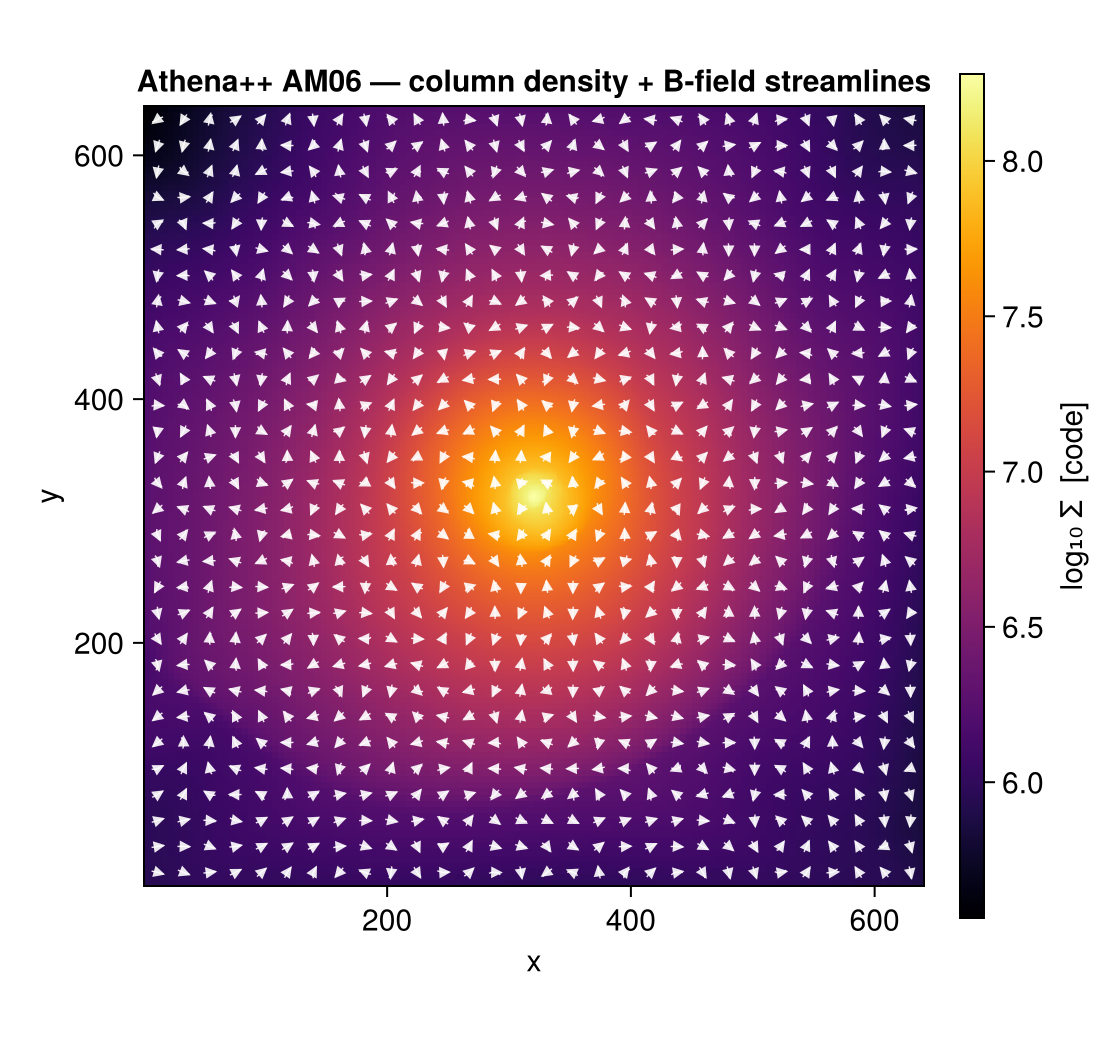
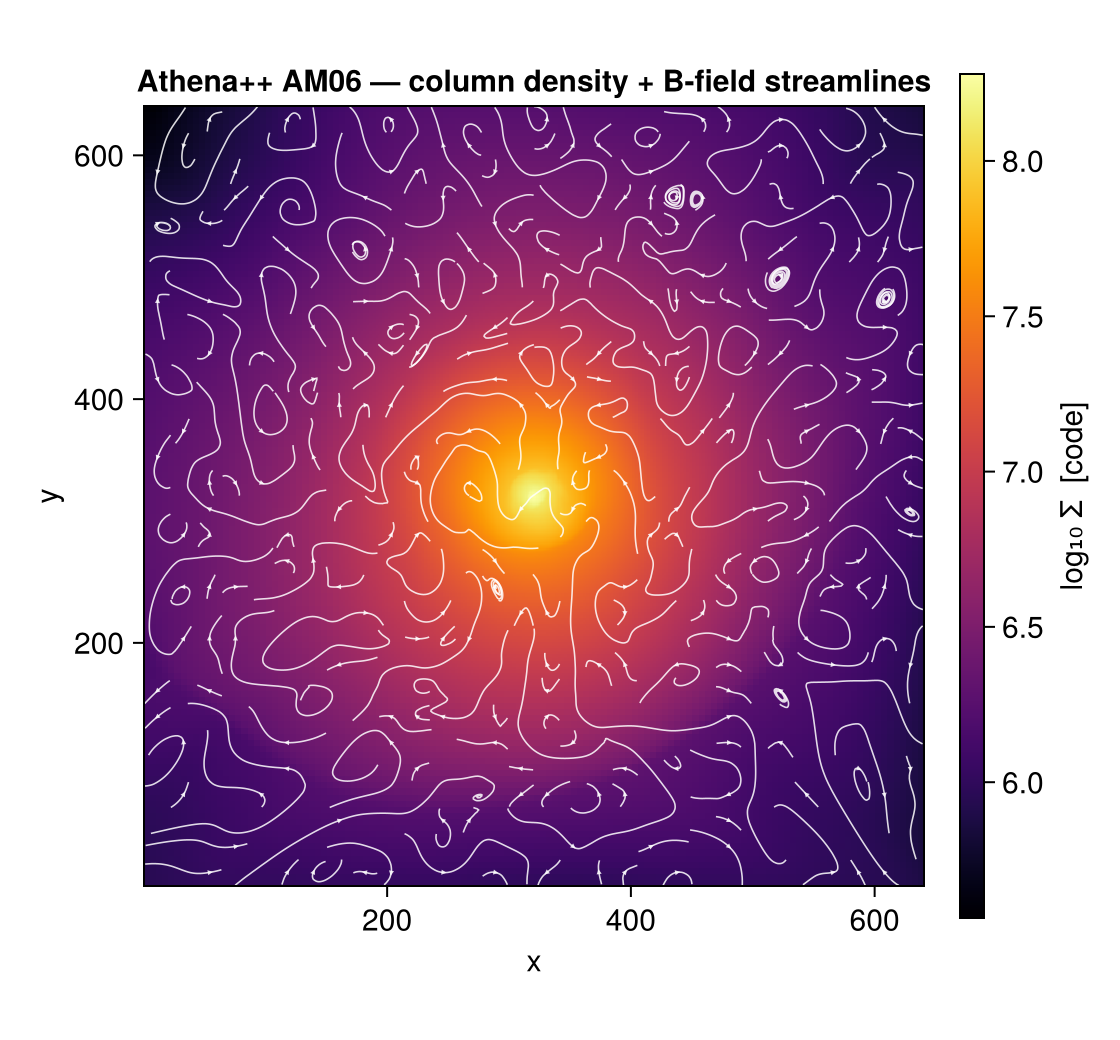
docs: AMR refinement-level maps + full CairoMakie code in reader docs (#182)
- AMR refinement-level map on both readers (volume-weighted mean :level along
  the LOS): Athena++ AM06 draws the nested MeshBlock hierarchy (levels 7→11);
  PLUTO-AMR (Chombo IsothermalSphere) shows the refined central block (6→7).
- Fix the AM06 B-field streamlines: smooth the turbulent mass-weighted field
  and tune streamplot so it reads as flowing field lines, not a quiver of arrows.
- Show the complete CairoMakie plotting code (heatmap / streamplot / 2-D
  histogram / Colorbar / save) in both the Athena++ and PLUTO docs.
- Document load behaviour for the non-RAMSES frontends: the whole snapshot is
  loaded (xrange/yrange/zrange/lmax accepted but not yet applied → use
  subregion afterward), and data types load separately as for RAMSES (only
  what the code wrote: Athena++ = hydro+MHD; PLUTO = hydro + optional particles).

make_reader_figures.jl regenerates all six figures from the fixtures. Docs build clean.

Changed region(s): [[0.125, 0.0923, 0.8438, 0.8615]]

diff --git a/docs/src/athena_reader.md b/docs/src/athena_reader.md
@@ -31,6 +31,14 @@ clumpfind(gas, ThresholdFoF(:rho; threshold=1e2, threshold_unit=:nH, linking_len
 You can also call the frontend explicitly with [`getinfo_athena`](@ref) / [`gethydro_athena`](@ref)
 (e.g. to pass a direct `.athdf` path).
 
+!!! note "What loads, and how much"
+    The frontend currently **loads the whole snapshot**: the `xrange`/`yrange`/`zrange`/`lmax`
+    load-time sub-selection of the RAMSES reader is *not yet applied* for non-RAMSES codes (those
+    keywords are accepted but ignored), so restrict a region **after** loading with
+    [`subregion`](@ref). Data is loaded per type, exactly as for RAMSES — but only what the code
+    wrote exists: an Athena++ snapshot is **hydro + cell-centred MHD only** (no gravity/particles),
+    so you call [`gethydro`](@ref) and there is nothing for `getgravity`/`getparticles` to read.
+
 ## Worked example: the yt AM06 sample
 
 A good way to see the frontend on real data is the **AM06** snapshot from the
@@ -63,15 +71,47 @@ projection(gas, :sd, res=512, center=[:bc], direction=:z)   # column density, fa
 
 Because the `B`-dataset is read into `:bx,:by,:bz`, the full magnetic [`getvar`](@ref) set
 (`:bmag`, `:pmag`, `:beta`, `:v_alfven`, `:mach_alfven`/`:mach_fast`/`:mach_slow`) and vector
-projections work on Athena++ data too. **Magnetic-field streamlines** over the column density come
-from a vector projection of the in-plane field — note this is the **mass-weighted** field, so the
-streamlines trace field *morphology*, not a flux-rigorous line integral:
+projections work on Athena++ data too.
+
+**Magnetic-field streamlines** over the column density come from a vector projection of the
+in-plane field. Note this is the **mass-weighted** field, so the streamlines trace field
+*morphology*, not a flux-rigorous line integral. Here is the complete [CairoMakie](https://docs.makie.org)
+code (a small box-car smoother tidies the turbulent field into clean lines):
 
 ```julia
 using CairoMakie
-p = projection(gas, [:sd, :bx, :by], res=640, center=[:bc], direction=:z)
-Σ, Bx, By = p.maps[:sd], p.maps[:bx], p.maps[:by]
-# heatmap of log10.(Σ) + Makie streamplot of (Bx, By)  → the field threading the cloud
+
+# separable box-car smoother (the projected field maps are dense, no NaN)
+function smooth2d(A, w)
+    n1, n2 = size(A); tmp = similar(A); B = similar(A)
+    for j in 1:n2, i in 1:n1
+        s = 0.0; c = 0
+        for di in -w:w; ii = i+di; (1<=ii<=n1) && (s += A[ii,j]; c += 1); end
+        tmp[i,j] = s/c
+    end
+    for j in 1:n2, i in 1:n1
+        s = 0.0; c = 0
+        for dj in -w:w; jj = j+dj; (1<=jj<=n2) && (s += tmp[i,jj]; c += 1); end
+        B[i,j] = s/c
+    end
+    return B
+end
+
+res = 640
+p  = projection(gas, [:sd, :bx, :by], res=res, center=[:bc], direction=:z)
+Σ  = p.maps[:sd]
+Bx = smooth2d(p.maps[:bx], 4);  By = smooth2d(p.maps[:by], 4)
+
+fig = Figure(size=(560, 520))
+ax  = Axis(fig[1,1]; title="AM06 — column density + B-field streamlines",
+           xlabel="x", ylabel="y", aspect=DataAspect())
+hm  = heatmap!(ax, 1..res, 1..res, log10.(Σ .+ 1e-30); colormap=:inferno)
+# streamplot wants a function (x,y) → vector; index the (smoothed) field maps
+bfield(q) = (i = clamp(round(Int, q[1]), 1, res); j = clamp(round(Int, q[2]), 1, res); Point2f(Bx[i,j], By[i,j]))
+streamplot!(ax, bfield, 1..res, 1..res; colormap=[(:white, 0.85)], gridsize=(30,30),
+            arrow_size=3.5, linewidth=0.8, density=1.6, stepsize=1.0, maxsteps=900)
+Colorbar(fig[1,2], hm, label="log₁₀ Σ  [code]")
+save("am06_bstream.png", fig, px_per_unit=2)
 ```
 
 ![Athena++ AM06 column density with magnetic-field streamlines overlaid — the mass-weighted in-plane B-field traced over the cloud.](assets/athena/am06_bstream.png)
@@ -81,13 +121,47 @@ histogram — and it recovers the expected flux-freezing scaling (|B| ∝ ρ^~2/
 density, a real physics result extracted entirely through Mera's code-blind analysis layer:
 
 ```julia
-ρ, B, m = getvar(gas, :rho), getvar(gas, :bmag), getvar(gas, :mass)
-# 2-D histogram of (log10 ρ, log10 B) weighted by m  → the B–ρ relation
+ρ, B, m = getvar(gas, :rho), getvar(gas, :bmag), getvar(gas, :mass)   # code units
+lx, ly  = log10.(ρ), log10.(B .+ 1e-30); nb = 180
+xr = range(extrema(lx)...; length=nb+1);  yr = range(extrema(ly)...; length=nb+1)
+H  = zeros(nb, nb)
+for k in eachindex(lx)                       # mass-weighted 2-D histogram
+    i = searchsortedlast(xr, lx[k]); j = searchsortedlast(yr, ly[k])
+    (1 <= i <= nb && 1 <= j <= nb) && (H[i,j] += m[k])
+end
+H[H .== 0] .= NaN
+mids(r) = (r[1:end-1] .+ r[2:end]) ./ 2
+
+fig = Figure(size=(560, 470))
+ax  = Axis(fig[1,1]; title="AM06 — density–|B| phase diagram",
+           xlabel="log₁₀ ρ  [code]", ylabel="log₁₀ |B|  [code]")
+hb  = heatmap!(ax, mids(xr), mids(yr), log10.(H); colormap=:viridis)
+Colorbar(fig[1,2], hb, label="log₁₀ mass")
+save("am06_phase.png", fig, px_per_unit=2)
 ```
 
 ![Athena++ AM06 density–|B| phase diagram (mass-weighted) — the magnetic field follows the flux-freezing scaling B ∝ ρ^~2/3 over six decades in density.](assets/athena/am06_phase.png)
 
-These figures are regenerated from the fixture by `docs/make_reader_figures.jl`.
+### AMR refinement map
+
+The cell `:level` is a projectable quantity, so a **volume-weighted mean level along the line of
+sight** maps where the grid refines — for AM06 it draws the nested MeshBlock hierarchy as
+concentric squares tightening onto the dense core (levels 7 → 11):
+
+```julia
+m = projection(gas, :level, res=512, center=[:bc], direction=:z, weighting=[:volume]).maps[:level]
+
+fig = Figure(size=(560, 470))
+ax  = Axis(fig[1,1]; title="AM06 — AMR refinement level (mean along LOS)",
+           xlabel="x", ylabel="y", aspect=DataAspect())
+hm  = heatmap!(ax, m; colormap=:turbo)
+Colorbar(fig[1,2], hm, label="level (7–11)")
+save("am06_levels.png", fig, px_per_unit=2)
+```
+
+![Athena++ AM06 AMR refinement level — the nested MeshBlock hierarchy shows as concentric squares of increasing level toward the dense core.](assets/athena/am06_levels.png)
+
+All figures on this page are regenerated from the fixture by `docs/make_reader_figures.jl`.
 
 ## Units
 

diff --git a/docs/src/pluto_reader.md b/docs/src/pluto_reader.md
@@ -42,6 +42,14 @@ info = getinfo(5, path; code=:pluto)        # or :ramses, or :auto (the default)
 The low-level frontend functions are also exported if you want them directly:
 `getinfo_pluto(output, path)` and `gethydro_pluto(info)`.
 
+!!! note "What loads, and how much"
+    The frontend currently **loads the whole snapshot**: the `xrange`/`yrange`/`zrange`/`lmax`
+    load-time sub-selection of the RAMSES reader is *not yet applied* for non-RAMSES codes (those
+    keywords are accepted but ignored), so restrict a region **after** loading with
+    [`subregion`](@ref). Data is loaded per type, exactly as for RAMSES: [`gethydro`](@ref) always,
+    and [`getparticles`](@ref) when a PLUTO particle file is present (`info.particles == true`).
+    PLUTO snapshots carry no separate gravity dataset.
+
 `gas` is an ordinary `HydroDataType` (uniform grid, columns `:cx,:cy,:cz, :rho,:vx,:vy,:vz,:p`),
 identical in shape to what the RAMSES uniform-grid reader produces. Everything downstream just
 works:
@@ -125,7 +133,20 @@ savemap(p, "pluto_rho.jld2")
 Projecting the loaded blast along each axis shows the spherical shock front directly — the
 column density rendered along `x`, `y` and `z` with the same [`projection`](@ref) call used for
 RAMSES (the Sedov test runs in one octant, so the shell appears as a quarter-circle from each
-direction):
+direction). The complete [CairoMakie](https://docs.makie.org) code for that three-panel figure:
+
+```julia
+using CairoMakie
+
+fig = Figure(size=(1150, 380))
+for (i, dir) in enumerate((:x, :y, :z))
+    Σ  = projection(gas, :sd, res=512, center=[:bc], direction=dir).maps[:sd]
+    ax = Axis(fig[1, i]; title="PLUTO Sedov 3-D — direction :$dir", aspect=DataAspect())
+    hidedecorations!(ax)
+    heatmap!(ax, log10.(Σ' .+ 1e-30); colormap=:inferno)   # transpose: array (col,row) → (x,y)
+end
+save("pluto_projection.png", fig, px_per_unit=2)
+```
 
 ![Log column density of the PLUTO Sedov blast (output 5), projected along x, y and z — the uniform-grid PLUTO data feed Mera's projection engine unchanged.](assets/pluto/pluto_projection.png)
 
@@ -166,6 +187,26 @@ Chombo level-0 of `N₀` cells per axis becomes Mera level `log₂N₀`, each fi
 Orion (`density`, `X/Y/Z-momentum`, `energy-density`) with velocity = momentum/density and
 pressure derived from the energy. The leaf extraction is validated cell-for-cell against an
 independent reader.
+
+Because the `:level` column survives into the standard struct, the **AMR structure is itself
+plottable** — a volume-weighted mean level along the line of sight shows where the grid refines
+(here a self-gravitating isothermal sphere refined toward its centre, Mera levels 6 → 7). The full
+[CairoMakie](https://docs.makie.org) code is identical to the Athena++ AMR map:
+
+```julia
+using CairoMakie
+
+m = projection(gas, :level, res=512, center=[:bc], direction=:z, weighting=[:volume]).maps[:level]
+
+fig = Figure(size=(560, 470))
+ax  = Axis(fig[1,1]; title="PLUTO-AMR (Chombo) — AMR refinement level (mean along LOS)",
+           xlabel="x", ylabel="y", aspect=DataAspect())
+hm  = heatmap!(ax, m; colormap=:turbo)
+Colorbar(fig[1,2], hm, label="level (6–7)")
+save("pluto_amr_levels.png", fig, px_per_unit=2)
+```
+
+![PLUTO-AMR (Chombo) AMR refinement level — the refined central block around the isothermal sphere, the analysis layer reading the level hierarchy unchanged.](assets/pluto/pluto_amr_levels.png)
 
 HDF5 reading uses `HDF5.jl` (a dependency of Mera). Requires a power-of-two base grid and
 `ref_ratio = 2` (the common PLUTO/Chombo case).
